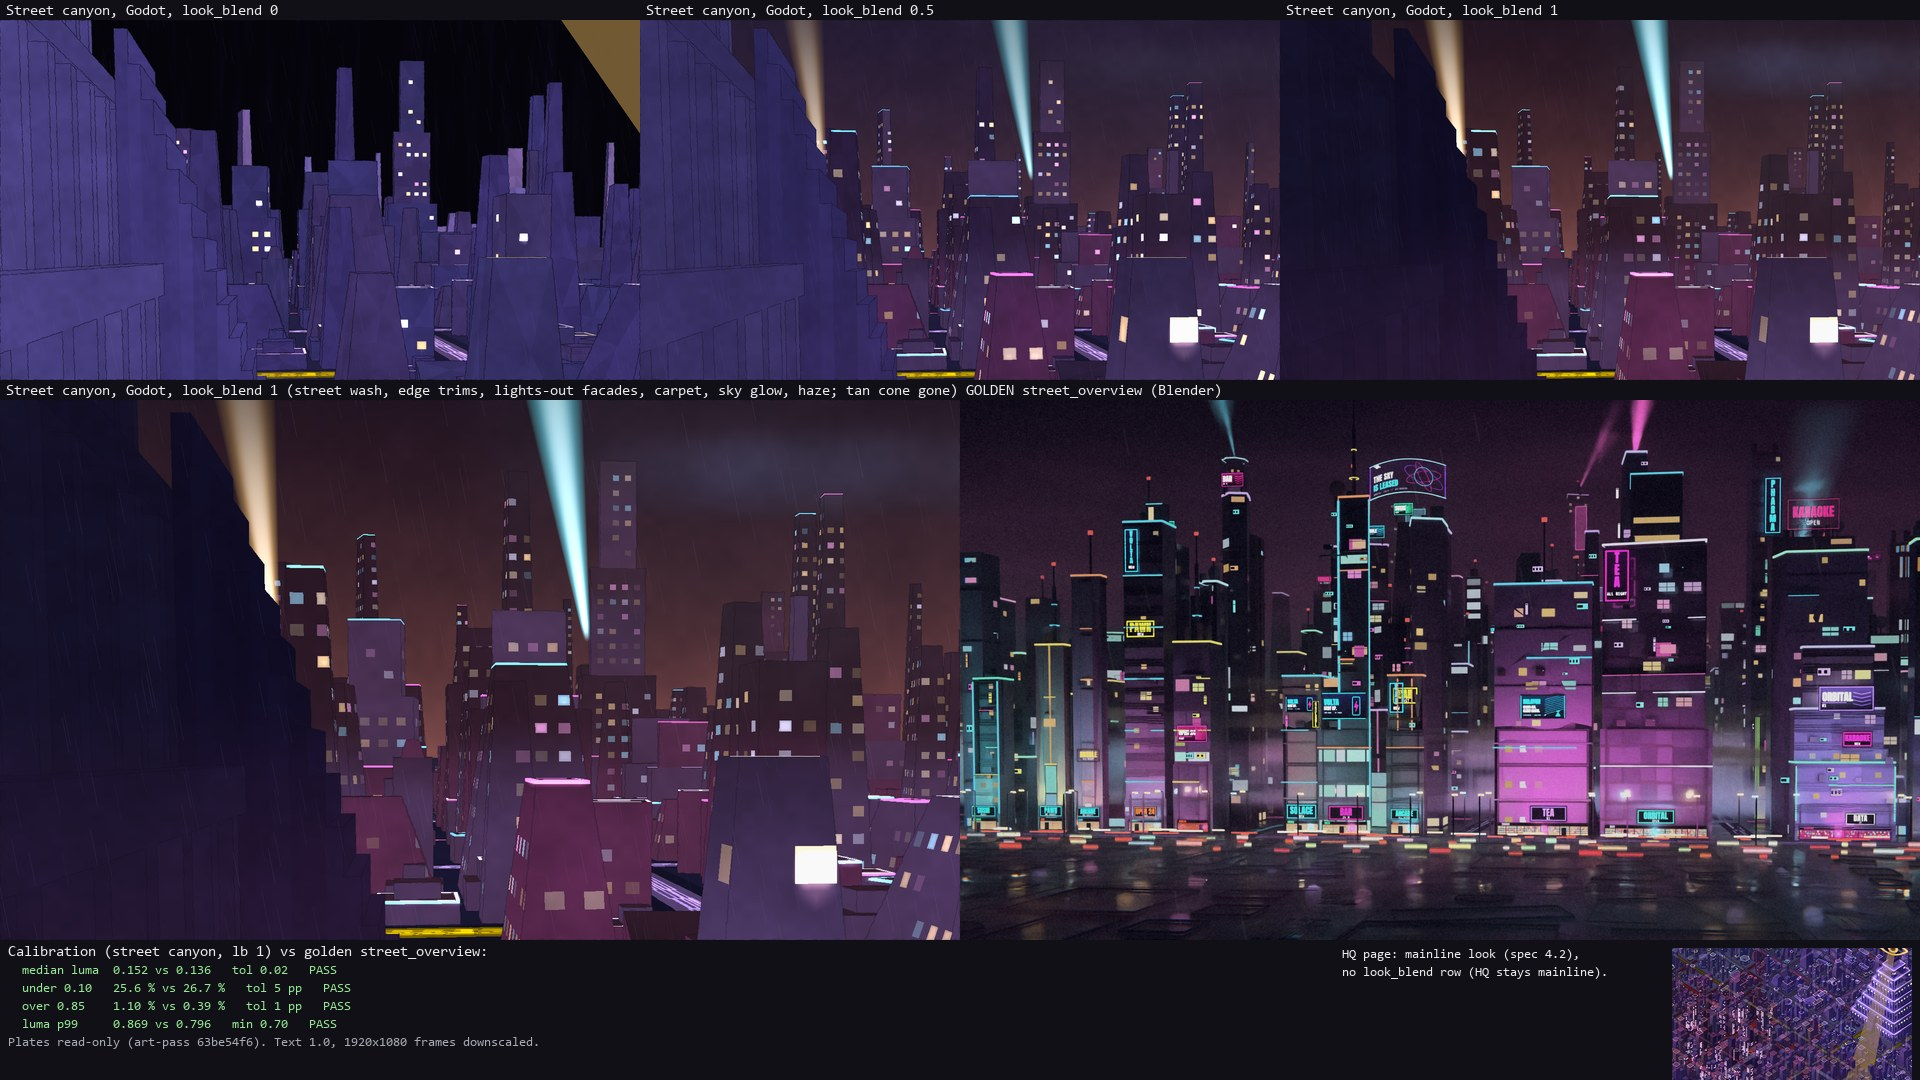
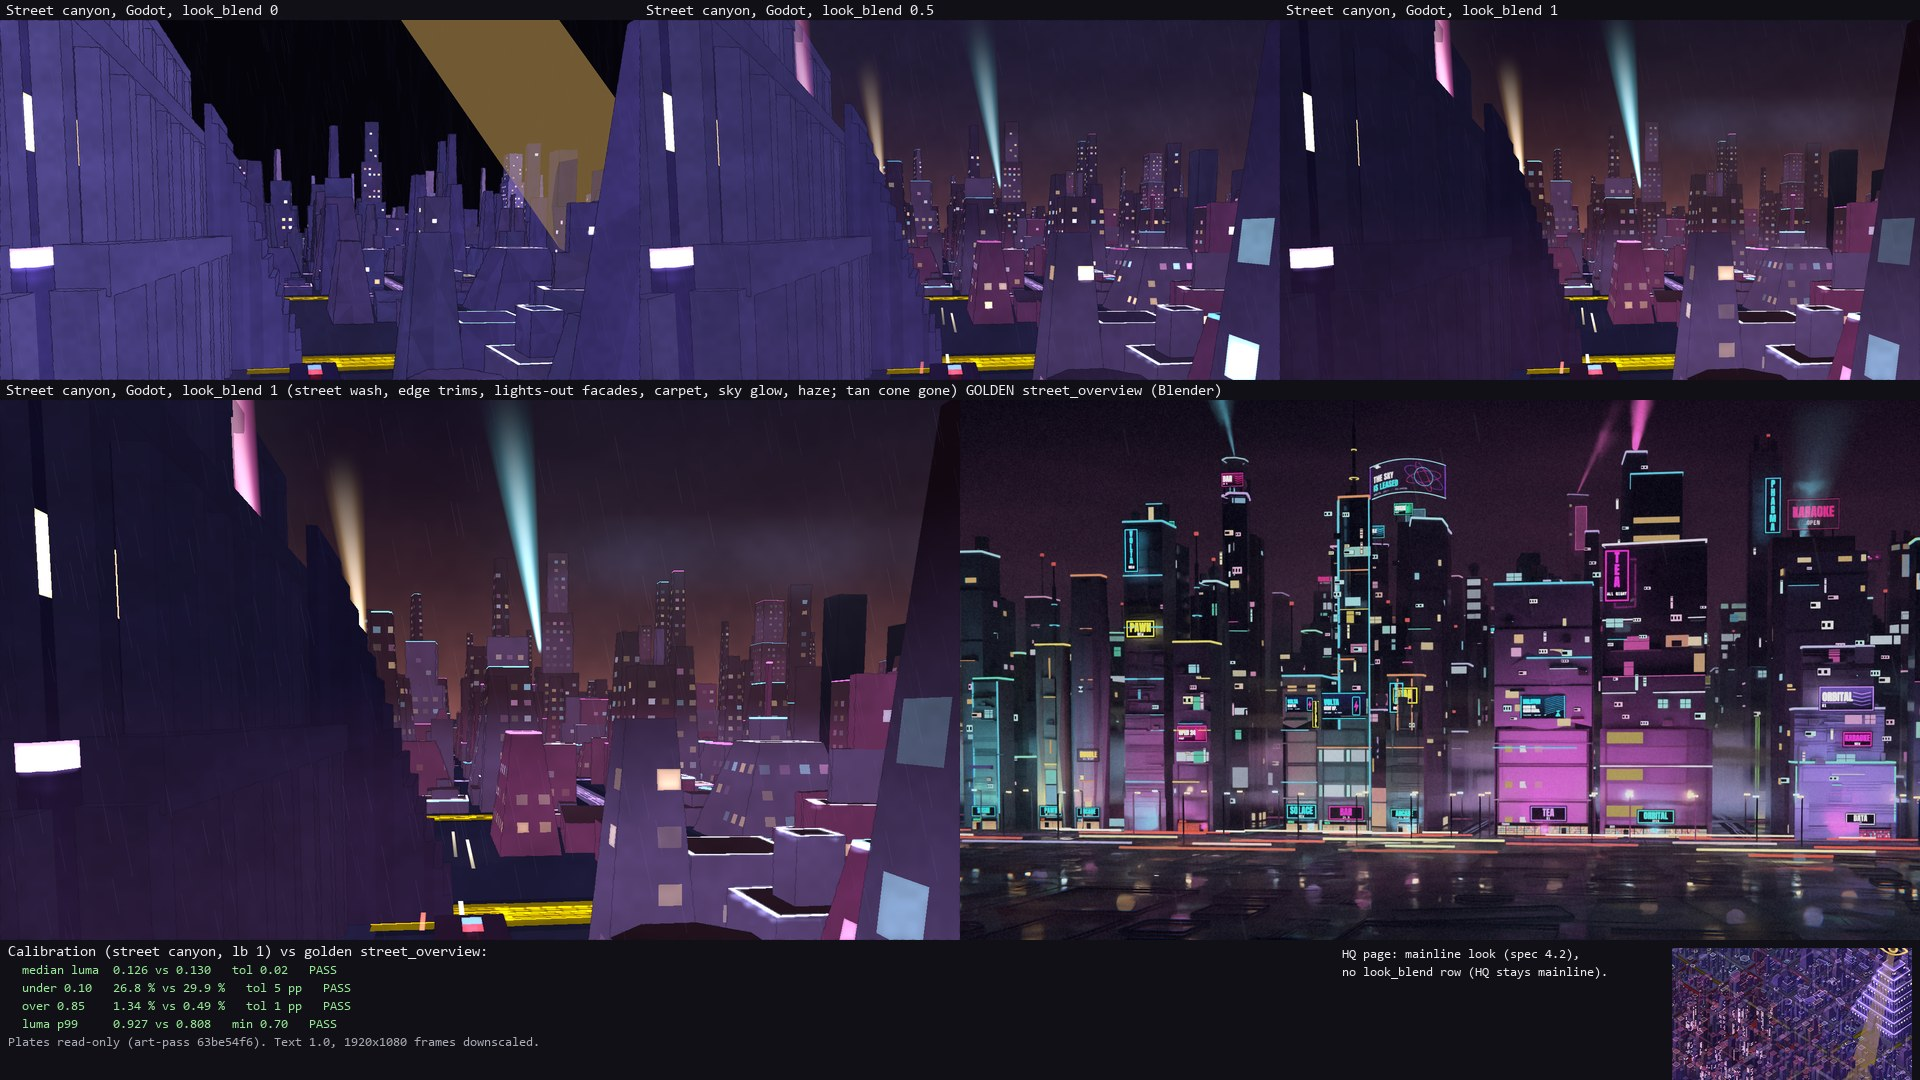
W1 NA-22d city: edge trims smoothstep blend in config, lab on apply_render, recalibrated exposure / win_emit / beam emit

diff --git a/docs/DECISIONS.md b/docs/DECISIONS.md
@@ -8921,3 +8921,6 @@ Batch lane (Sonnet 5.5, `const_edits`, `tools/batch/apply_edits.py` value-checke
 - Shader / pack: `city_building` cuts room windows (`room_box`, `room_z`, 32 slots) from buildings with the new `route` pack bit (bit 22); the id pass writes B = 1 on route buildings. New schema `StreetRouteConfigData` (`street_route.tres`, smoke check `_na23_street_route_config`): fog density 0.15 at OVERVIEW and 0.02 at DECISION (value band 12.1); NA-24 owns the fog dressing.
 - id.png: room G = 1-based place in the run graph (unique per room), B = layer. 12.6 "route never occluded" still reports pixels: neighbours beside a column inside the 12 px ring (class 2, B = 0), never an occluder in front.
 - Q answers used: DECISION shows only the four run_graph v1 types; the hover cut leaves the TARGET arrow lit (overlay above the grade).
+
+### 2026-10-18 — W1 NA-22d: edge-trim blend, recalibration on the true framing (apply_render)
+- `building.edge_blend` [0.3, 0.8] (config): trims fade in with smoothstep over look_blend, clean below 0.3. na22_lab now uses `NetrunFrustum.apply_render`. On the true framing the old values read darker than the plate (median 0.109, under-0.10 41.6 %, over-0.85 1.78 %), so the trim went UP, not down: look.exposure 0.95 -> 1.2, building.win_emit 0.8 -> 0.45, beam.emit 1.5 -> 1.3 (over-0.85 back inside tolerance). Canyon lb1 vs re-baked street_overview: median 0.126 (0.130), under-0.10 26.8 % (29.9 %), over-0.85 1.34 % (0.49 %, tol 1 pp), p99 0.927 (min 0.70). Tolerances untouched. Windowed render test 7/7.
